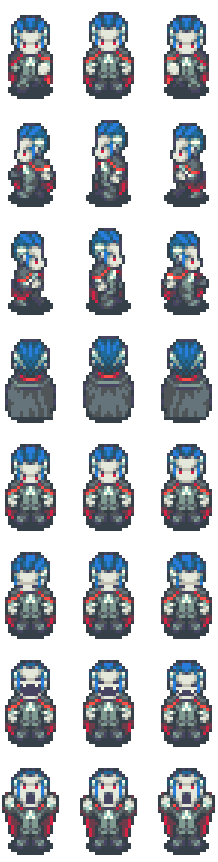
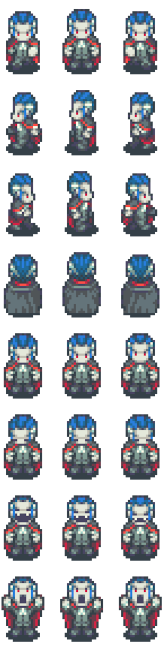
Feature(Tilemap Maze): Finish tilemap

diff --git a/src/scenes/MazeScene.js b/src/scenes/MazeScene.js
@@ -6,6 +6,7 @@ import Vampire from "../classes/Enemies/Vampire.js";
 import Tank from "../classes/Tank";
 import Score from "../hud/score";
 import TankAtk from "../classes/TankAtk";
+import EventEmitter from "../events/Emitter";
 
 export default class MazeScene extends Phaser.Scene {
   constructor() {
@@ -36,13 +37,13 @@ export default class MazeScene extends Phaser.Scene {
 
     //LOAD SPRITE
     this.load.spritesheet(assets.TANK_KEY, assets.TANK_URL, {
-      frameWidth: 75,
-      frameHeight: 109,
+      frameWidth: 61,
+      frameHeight: 86.75,
     });
     //LOAD ENEMIES
     this.load.spritesheet(assets.VAMPIRE_KEY, assets.VAMPIRE_URL, {
-      frameWidth: 72,
-      frameHeight: 107,
+      frameWidth: 53.7,
+      frameHeight: 80,
     });
     this.load.spritesheet(assets.ZOMBIE_KEY, assets.ZOMBIE_URL, {
       frameWidth: 30,
@@ -54,19 +55,18 @@ export default class MazeScene extends Phaser.Scene {
     this.playerGroup = this.add.group();
     //CREATE TILEMAP
     let map = this.make.tilemap({ key: assets.TILEMAZEMAP_KEY });
-    let tileMaze = map.addTilesetImage("main", assets.TILEMAZESET_KEY);
+    let tileMaze = map.addTilesetImage("Tilemaze", assets.TILEMAZESET_KEY);
     this.tileMaze = map.createLayer("Base", tileMaze, 0, 0);
     let collisionLayer = map.createLayer("Colliders", tileMaze, 0, 0);
     let collisionLayer2 = map.createLayer("Colliders 2", tileMaze, 0, 0);
 
+    this.player = this.createPlayer(this, { x: 240, y: 50 });
+    this.player.setTexture(assets.TANK_KEY, 0);
     collisionLayer.setCollisionByExclusion([-1]);
     this.physics.add.collider(this.player, collisionLayer);
     collisionLayer2.setCollisionByExclusion([-1]);
     this.physics.add.collider(this.player, collisionLayer2);
     //CREATE PLAYER
-    this.player = this.createPlayer(this, { x: 200, y: 300 });
-
-    this.player.setTexture(assets.TANK_KEY, 0);
 
     //CREATE SCORE LABEL
     this.score = this.createScoreLabel(
@@ -112,6 +112,11 @@ export default class MazeScene extends Phaser.Scene {
     );
 
     this.physics.add.collider(this.player, zombieGroup, this.onPlayerCollision);
+    this.physics.add.collider(
+      this.player,
+      vampireGroup,
+      this.onPlayerCollision
+    );
 
     this.physics.add.collider(zombieGroup, vampireGroup, null);
     this.physics.add.collider(zombieGroup, zombieGroup, null);
@@ -244,17 +249,12 @@ export default class MazeScene extends Phaser.Scene {
   }
 
   createVampire() {
-    const randomizedPositionx = this.enemyXSpawn();
-    const randomizedPositiony = this.enemyYSpawn();
-    // const randomizedPositionx = Math.random() * 800 + this.player.x;
-    // const randomizedPositiony = Math.random() * 800 + this.player.y;
     return new Vampire(
       this,
-      randomizedPositionx,
-      randomizedPositiony,
+      700,
+      30,
       assets.VAMPIRE_KEY,
       assets.VAMPIRE_URL,
-      undefined,
       this.player
     );
   }

diff --git a/src/classes/Enemies/Zombie.js b/src/classes/Enemies/Zombie.js
@@ -74,10 +74,35 @@ export default class Zombie extends Enemy {
       return;
     }
 
-    this.playerGroup.getChildren().forEach((player) => {
-      if (Phaser.Math.Distance.BetweenPoints(player, this) < 2000) {
-        if (Math.abs(this.x - player.x) > Math.abs(this.y - player.y)) {
-          if (player.x < this.x) {
+    if (this.playerGroup !== undefined) {
+      this.playerGroup.getChildren().forEach((player) => {
+        if (Phaser.Math.Distance.BetweenPoints(player, this) < 2000) {
+          if (Math.abs(this.x - player.x) > Math.abs(this.y - player.y)) {
+            if (player.x < this.x) {
+              this.setVelocityX(-50);
+              this.anims.play("zombie-left", true);
+            } else {
+              this.setVelocityX(50);
+              this.anims.play("zombie-right", true);
+            }
+          } else {
+            if (player.y < this.y) {
+              this.setVelocityY(-50);
+              this.anims.play("zombie-idleBack", true);
+            } else {
+              this.setVelocityY(50);
+              this.anims.play("zombie-idleFront", true);
+            }
+          }
+        }
+      });
+      // }
+    } else {
+      if (Phaser.Math.Distance.BetweenPoints(this.player, this) < 2000) {
+        if (
+          Math.abs(this.x - this.player.x) > Math.abs(this.y - this.player.y)
+        ) {
+          if (this.player.x < this.x) {
             this.setVelocityX(-50);
             this.anims.play("zombie-left", true);
           } else {
@@ -85,7 +110,7 @@ export default class Zombie extends Enemy {
             this.anims.play("zombie-right", true);
           }
         } else {
-          if (player.y < this.y) {
+          if (this.player.y < this.y) {
             this.setVelocityY(-50);
             this.anims.play("zombie-idleBack", true);
           } else {
@@ -94,7 +119,7 @@ export default class Zombie extends Enemy {
           }
         }
       }
-    });
+    }
     // }
 
     if (this.health <= 0) {

diff --git a/src/classes/Enemies/Vampire.js b/src/classes/Enemies/Vampire.js
@@ -4,14 +4,13 @@ import Enemy from "./Enemy";
 const VAMPIRE_KEY = "vampire";
 
 export default class Vampire extends Enemy {
-  constructor(scene, x, y, key, type, playerGroup, player) {
-    super(scene, x, y, key, type, playerGroup);
+  constructor(scene, x, y, key, type, player) {
+    super(scene, x, y, key, type);
 
-    this.health = 500;
+    this.health = 300;
     this.damage = 75;
     this.init();
     this.player = player;
-    this.playerGroup = playerGroup;
   }
 
   ENEMY_KEY(monster) {
@@ -78,22 +77,22 @@ export default class Vampire extends Enemy {
       return;
     }
 
-    if (Phaser.Math.Distance.BetweenPoints(this.player, this) < 500) {
+    if (Phaser.Math.Distance.BetweenPoints(this.player, this) < 300) {
       if (Math.abs(this.x - this.player.x) > Math.abs(this.y - this.player.y)) {
         if (this.player.x < this.x) {
-          this.setVelocityX(-200);
+          this.setVelocityX(-100);
           this.anims.play("vampire-left", true);
         } else {
-          this.setVelocityX(50);
+          this.setVelocityX(100);
           this.anims.play("vampire-right", true);
         }
       } else {
         if (this.player.y < this.y) {
-          this.setVelocityY(-200);
-          this.anims.play("vampire-down", true);
-        } else {
-          this.setVelocityY(50);
+          this.setVelocityY(-100);
           this.anims.play("vampire-up", true);
+        } else {
+          this.setVelocityY(100);
+          this.anims.play("vampire-down", true);
         }
       }
     } else {

diff --git a/src/classes/Tank.js b/src/classes/Tank.js
@@ -13,7 +13,7 @@ class Tank extends Phaser.Physics.Arcade.Sprite {
     this.cursors = undefined;
     this.playerId = undefined;
 
-    this.damage = 30;
+    this.damage = 50;
     this.x = x;
     this.y = y;
 
